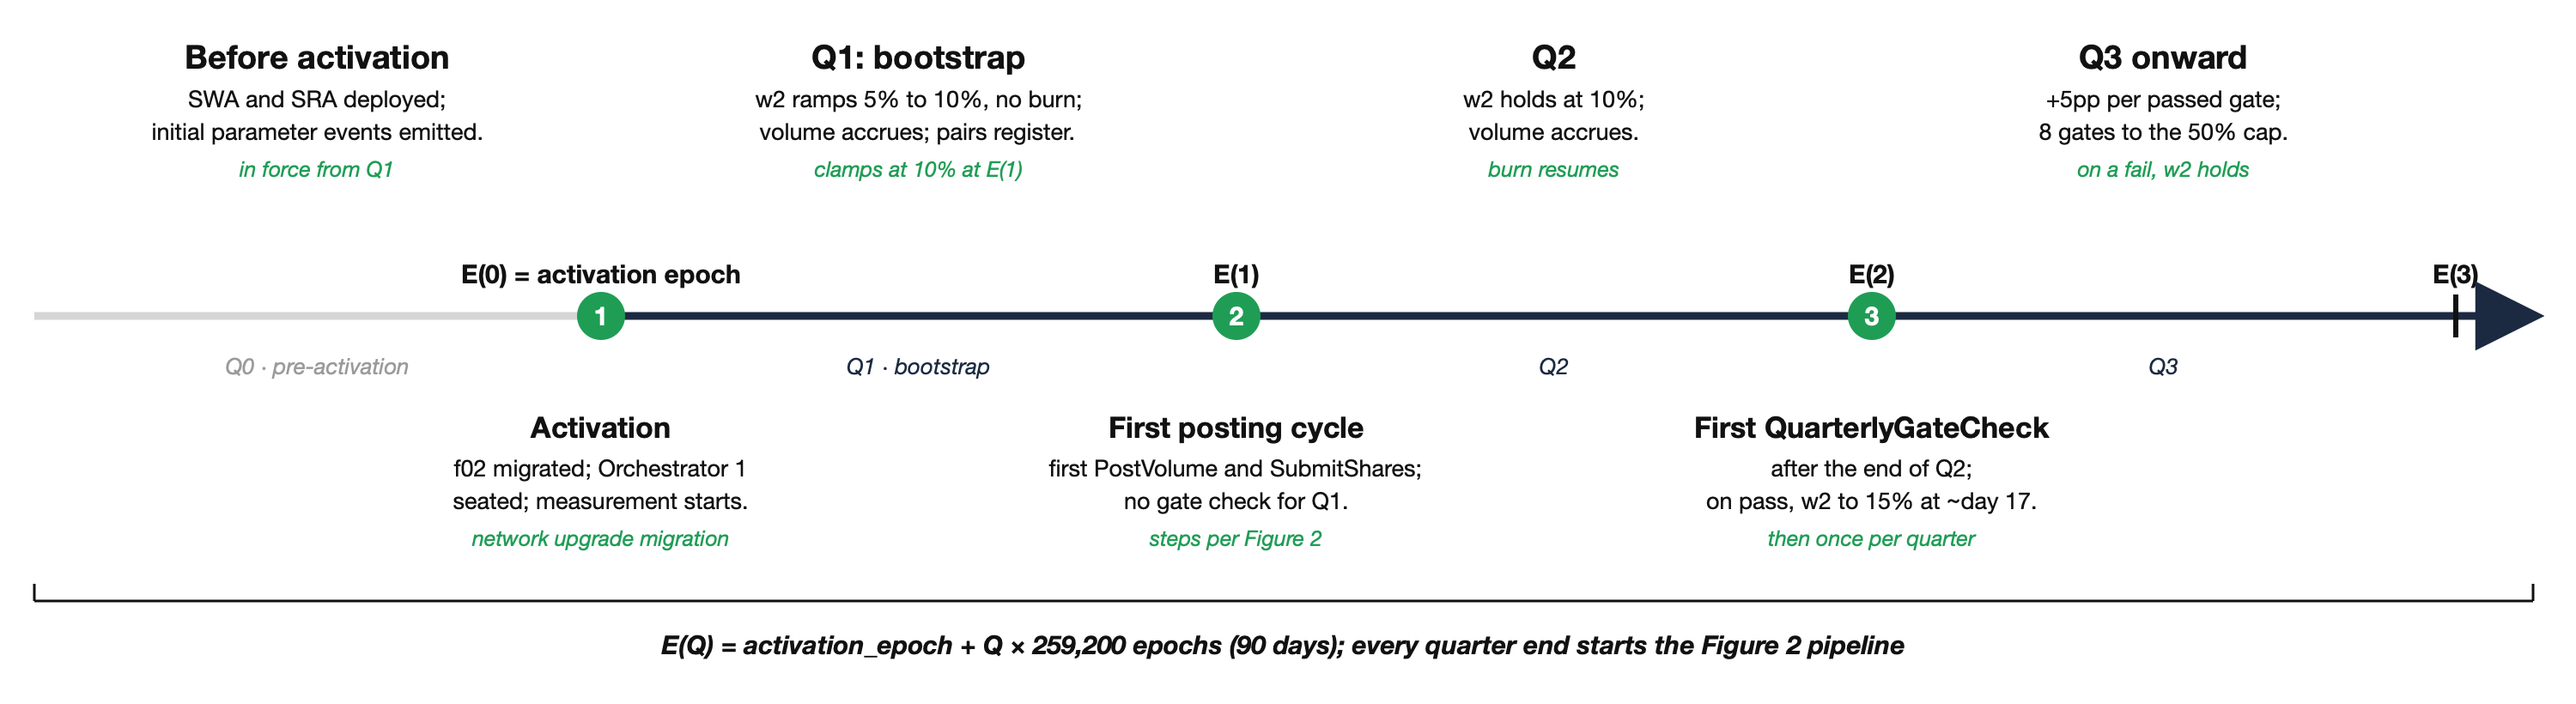
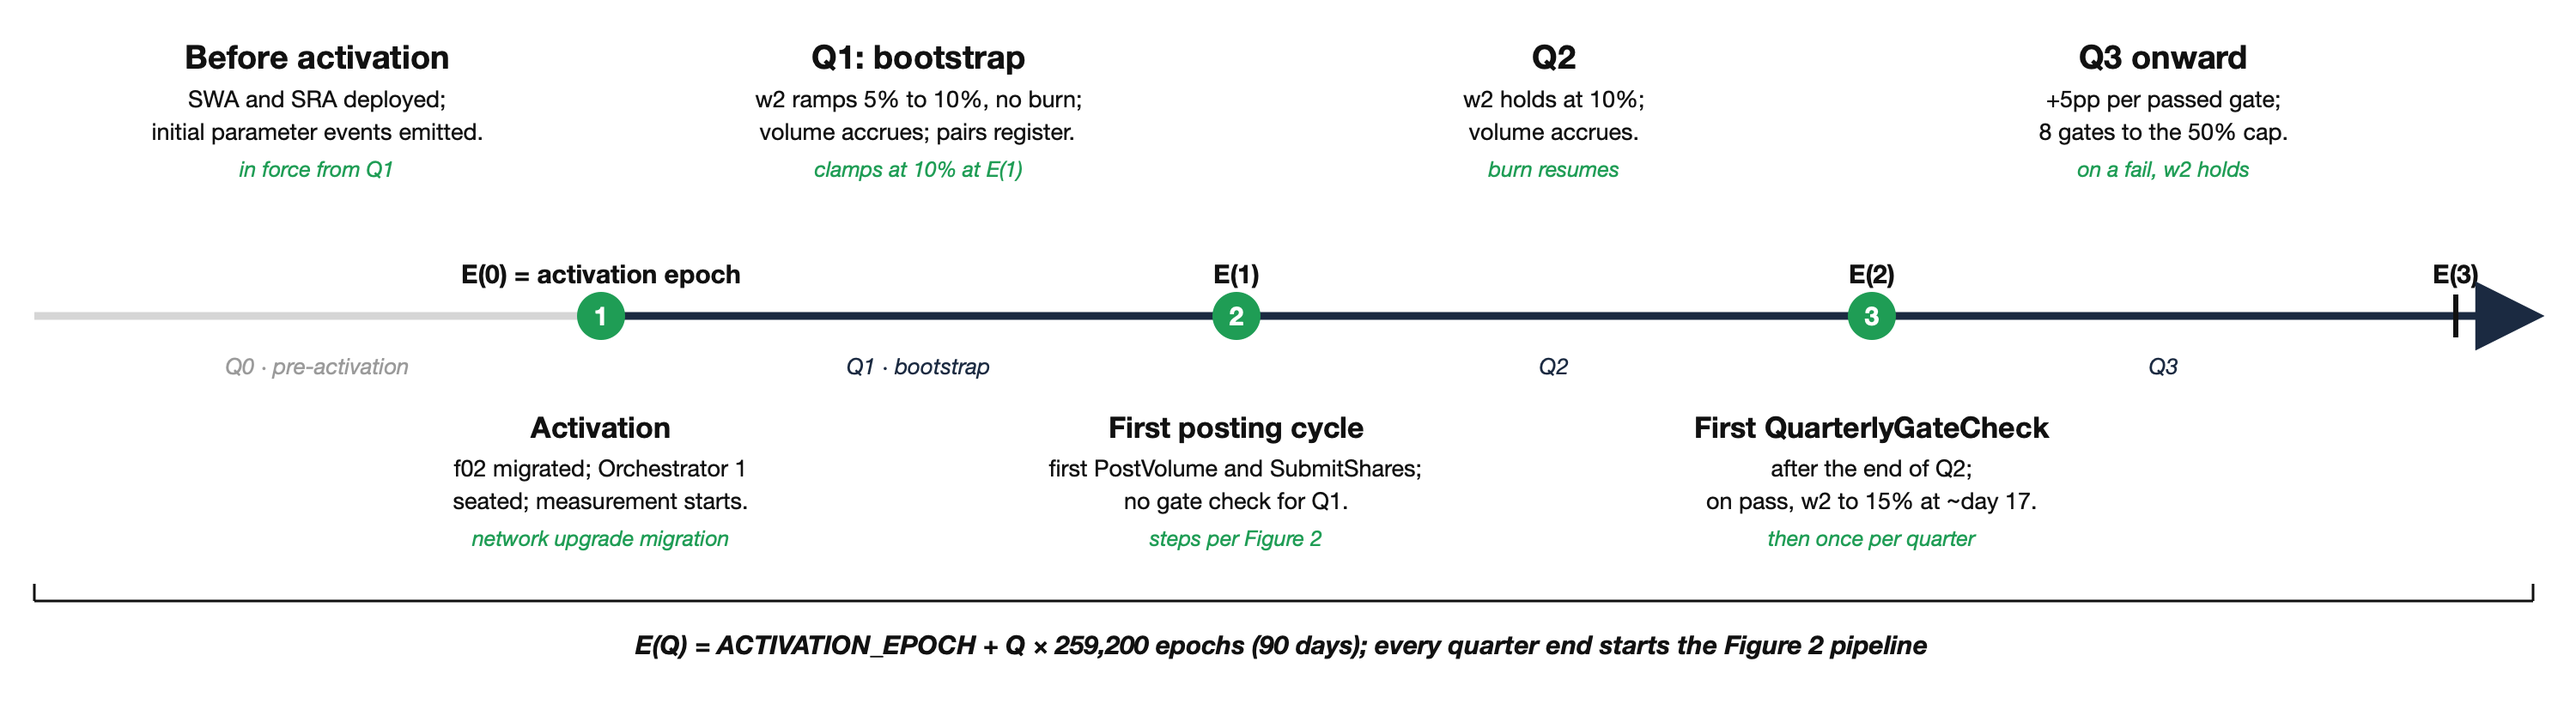
FIP-0118: Section 3.2 SRA state as a table; ACTIVATION_EPOCH and SRA_UPGRADE_HOLD named
The 3.2 state bullet becomes a table: each stored item with the
method that writes it and its initial mainnet value. The operative
sentences stay prose, and the boundary sentence now credits the four
timing values alone; the old wording lumped the upgrade hold into
"computes every quarter and window boundary from them".

The two unnamed deployment-fixed values get the format of the rest:
ACTIVATION_EPOCH (Figure 2 caption, the initial weight records in
2.4.10 and 3.1.1, and the launch-timeline figure label) and
SRA_UPGRADE_HOLD (3.2 table, 4.2, 4.3). Lowercase activation_epoch
now names only the RegisterStream field, so the network constant and
the per-write field no longer share a name.

Reviewer note: the t_start renames in the 2.4.10 and 3.1.1 records
read t_start as the network activation epoch; for the initial
records the two readings coincide.

Changed region(s): [[0.248, 0.8841, 0.744, 0.9451]]

diff --git a/FIPS/fip-0118.md b/FIPS/fip-0118.md
@@ -567,7 +567,7 @@ Section 3.2).
 
 ![Timeline of one quarter: posting period (values already converted to USD off-chain before posting), verification window, values bind, gate check, shares update, timelock](../resources/fip-0118/quarter-timeline.png)
 
-*Figure 2: one quarter, end to end. Quarter Q ends at epoch `E(Q) = activation_epoch + Q * EPOCHS_PER_QUARTER`; the figure's numbered steps 1 to 6 all run after E. Durations shown (3-day posting, 7-day verification) are the initial mainnet values, fixed at SRA deployment (Section 3.2); `SWA_TIMELOCK` is 7 days (Section 2.4). `QuarterlyGateCheck` (4) and `SubmitShares` (5) are independent and can run in either order. FIL-to-USD conversion (Section 2.3) happens off-chain, before posting.*
+*Figure 2: one quarter, end to end. Quarter Q ends at epoch `E(Q) = ACTIVATION_EPOCH + Q * EPOCHS_PER_QUARTER`; the figure's numbered steps 1 to 6 all run after E. Durations shown (3-day posting, 7-day verification) are the initial mainnet values, fixed at SRA deployment (Section 3.2); `SWA_TIMELOCK` is 7 days (Section 2.4). `QuarterlyGateCheck` (4) and `SubmitShares` (5) are independent and can run in either order. FIL-to-USD conversion (Section 2.3) happens off-chain, before posting.*
 
 Once per quarter, off the per-epoch path:
 
@@ -1700,7 +1700,7 @@ affected structures for the new scale.
 ##### 2.4.10 Migration
 
 The state migration bootstraps the two initial streams as
-clamped-linear records with `t_start` = `activation_epoch`:
+clamped-linear records with `t_start` = `ACTIVATION_EPOCH`:
 
 ```
 w1 (consensus, id 1, IMPLICIT):  { v_start: 0.95, slope: -0.45/(9 * EPOCHS_PER_QUARTER), floor: 0.50, cap: 0.95 }
@@ -1862,7 +1862,7 @@ Q2 onward:
 stream’s initial record (Section 2.4.10):
 
 ```
-W_service = { v_start: 0.05, slope: -slope_w1, t_start: activation_epoch, floor: 0.05, cap: W2_BASE }
+W_service = { v_start: 0.05, slope: -slope_w1, t_start: ACTIVATION_EPOCH, floor: 0.05, cap: W2_BASE }
 ```
 
 Because the slope is defined as the exact negative of w1’s,
@@ -2048,36 +2048,39 @@ divided among Orchestrators. In particular,
     code upgrade alone waits in a public queue before binding
     (Section 4.2).
 
-  - The SRA holds the registry (the (payer, operator) to Orchestrator
-    bindings and each Orchestrator’s payout wallet), the
-    posted volumes `FPV_i(Q)` with their verification-window state
-    (also served to the SWA, which reads quarter and window state
-    from the SRA alongside `AggregatedFPV`, Section 3.1.1), the
-    last quarter whose share map was submitted, and the
-    two Registry multisig addresses (Section 4.2); the activation
-    epoch, `EPOCHS_PER_QUARTER`, `POST_PERIOD`, `VERIFICATION_WINDOW`
-    and the upgrade-hold duration (Section 4.2) are SRA state too,
-    fixed at deployment: the SRA computes every quarter and window
-    boundary from them, so changing them is an SRA code upgrade,
-    never a registry write. The initial mainnet values are
-    259,200-epoch quarters (90 days at 30-second epochs), 8,640
-    epochs (3 days) of posting, 20,160 epochs (7 days) of
-    verification and a 20,160-epoch (7-day) upgrade hold, matching
-    `SWA_TIMELOCK` (Section 2.4) so an SRA code upgrade waits under
-    the same objection window as an SWA write; the activation epoch
-    is fixed with the activation parameters (TODO); the
-    admitted-stablecoin
-    whitelist, the admitted Filecoin Pay contract addresses, the
-    FIL pricing parameters (`MIN_LOT_FLOOR`, `MIN_LOT_ALPHA`,
-    `PRICE_BAND`, Section 2.3) and `REGISTRATION_CUTOFF` (Section
-    2.2) are updated by SRA Governance like any registry change,
-    applying from the next quarter boundary (Section 2.3), but are
-    not stored: each write only emits an event carrying the complete
-    new values, the authoritative record, since they parameterize
-    the off-chain measurement, not an on-chain computation. Read-only views expose the registry, the bound
-    volumes, and `AggregatedFPV(Q)` in USD (the sum of each
-    Orchestrator's bound, already USD-denominated `FPV_i(Q)`, Sections
-    2.2 and 2.3), which the SWA’s gate reads.
+  - **State.** The SRA stores:
+
+    | SRA state | Changes via | Initial (mainnet) |
+    |---|---|---|
+    | The registry: the `(payer, operator)` to Orchestrator bindings and each Orchestrator's payout wallet | `RegisterPairs`, `ReassignBinding`, `AddOrchestrator`, `RemoveOrchestrator`, `ReplaceWallet` | The initial Orchestrator, seated by the activation migration; no bindings |
+    | The posted volumes `FPV_i(Q)` with their verification-window state | `PostVolume`, `CorrectVolume` | Empty |
+    | The last quarter whose share map was submitted | `SubmitShares` | None |
+    | The two Registry multisig addresses | `ReplaceOwner` | Fixed with the activation parameters (TODO) |
+    | `ACTIVATION_EPOCH` | SRA code upgrade | Fixed with the activation parameters (TODO) |
+    | `EPOCHS_PER_QUARTER` | SRA code upgrade | 259,200 epochs (90 days at 30-second epochs) |
+    | `POST_PERIOD` | SRA code upgrade | 8,640 epochs (3 days) |
+    | `VERIFICATION_WINDOW` | SRA code upgrade | 20,160 epochs (7 days) |
+    | `SRA_UPGRADE_HOLD` | SRA code upgrade | 20,160 epochs (7 days) |
+
+    The SRA computes every quarter and window boundary from the four
+    deployment-fixed timing values, so changing any deployment-fixed
+    value is an SRA code upgrade, never a registry write;
+    `SRA_UPGRADE_HOLD` matches `SWA_TIMELOCK` (Section 2.4), so an
+    SRA code upgrade waits under the same objection window as an SWA
+    write. The SWA reads quarter and window state from the SRA
+    alongside `AggregatedFPV` (Section 3.1.1). The
+    admitted-stablecoin whitelist, the admitted Filecoin Pay
+    contract addresses, the FIL pricing parameters (`MIN_LOT_FLOOR`,
+    `MIN_LOT_ALPHA`, `PRICE_BAND`, Section 2.3) and
+    `REGISTRATION_CUTOFF` (Section 2.2) are updated by SRA
+    Governance like any registry change, applying from the next
+    quarter boundary (Section 2.3), but are not stored: each write
+    only emits an event carrying the complete new values, the
+    authoritative record, since they parameterize the off-chain
+    measurement, not an on-chain computation. Read-only views expose
+    the registry, the bound volumes, and `AggregatedFPV(Q)` in USD
+    (the sum of each Orchestrator's bound, already USD-denominated
+    `FPV_i(Q)`, Sections 2.2 and 2.3), which the SWA’s gate reads.
 
   - **Removal semantics.** The registry knows two states, admitted
     and removed, and `RemoveOrchestrator` is the
@@ -2337,8 +2340,9 @@ upgrade at either tier additionally requires a published and accepted
 FIP and is held before it binds, but needs no network upgrade; the
 pending upgrade and its execution MUST be observable on chain. The
 SWA's holds are enforced by f02 (`SWA_TIMELOCK`, Section 4.3); the
-SRA's upgrade hold is the one hold the SRA itself keeps, and its
-duration is SRA state, fixed at deployment (Section 3.2).
+SRA's upgrade hold (`SRA_UPGRADE_HOLD`) is the one hold the SRA
+itself keeps, and its duration is SRA state, fixed at deployment
+(Section 3.2).
 
 **SWA Governance** discretionary powers, each requiring a published and
 accepted FIP (except the last):
@@ -2421,7 +2425,8 @@ there is no exemption by category at that tier, so reducing a weight to
 zero is held exactly like removing a stream. SRA registry writes bind
 at once: their protection is the published rationale plus the
 replaceability of the tier (Sections 3.2 and 4.1), and the one
-held SRA action is the code upgrade.
+held SRA action is the code upgrade, held for `SRA_UPGRADE_HOLD`
+(Section 3.2).
 Mechanism-executed updates cannot be canceled: the gate's quarterly w2
 write queues in f02 under `SWA_TIMELOCK` for visibility, but it arrives
 through its own method, `StepWeightRecords`, the one operation
